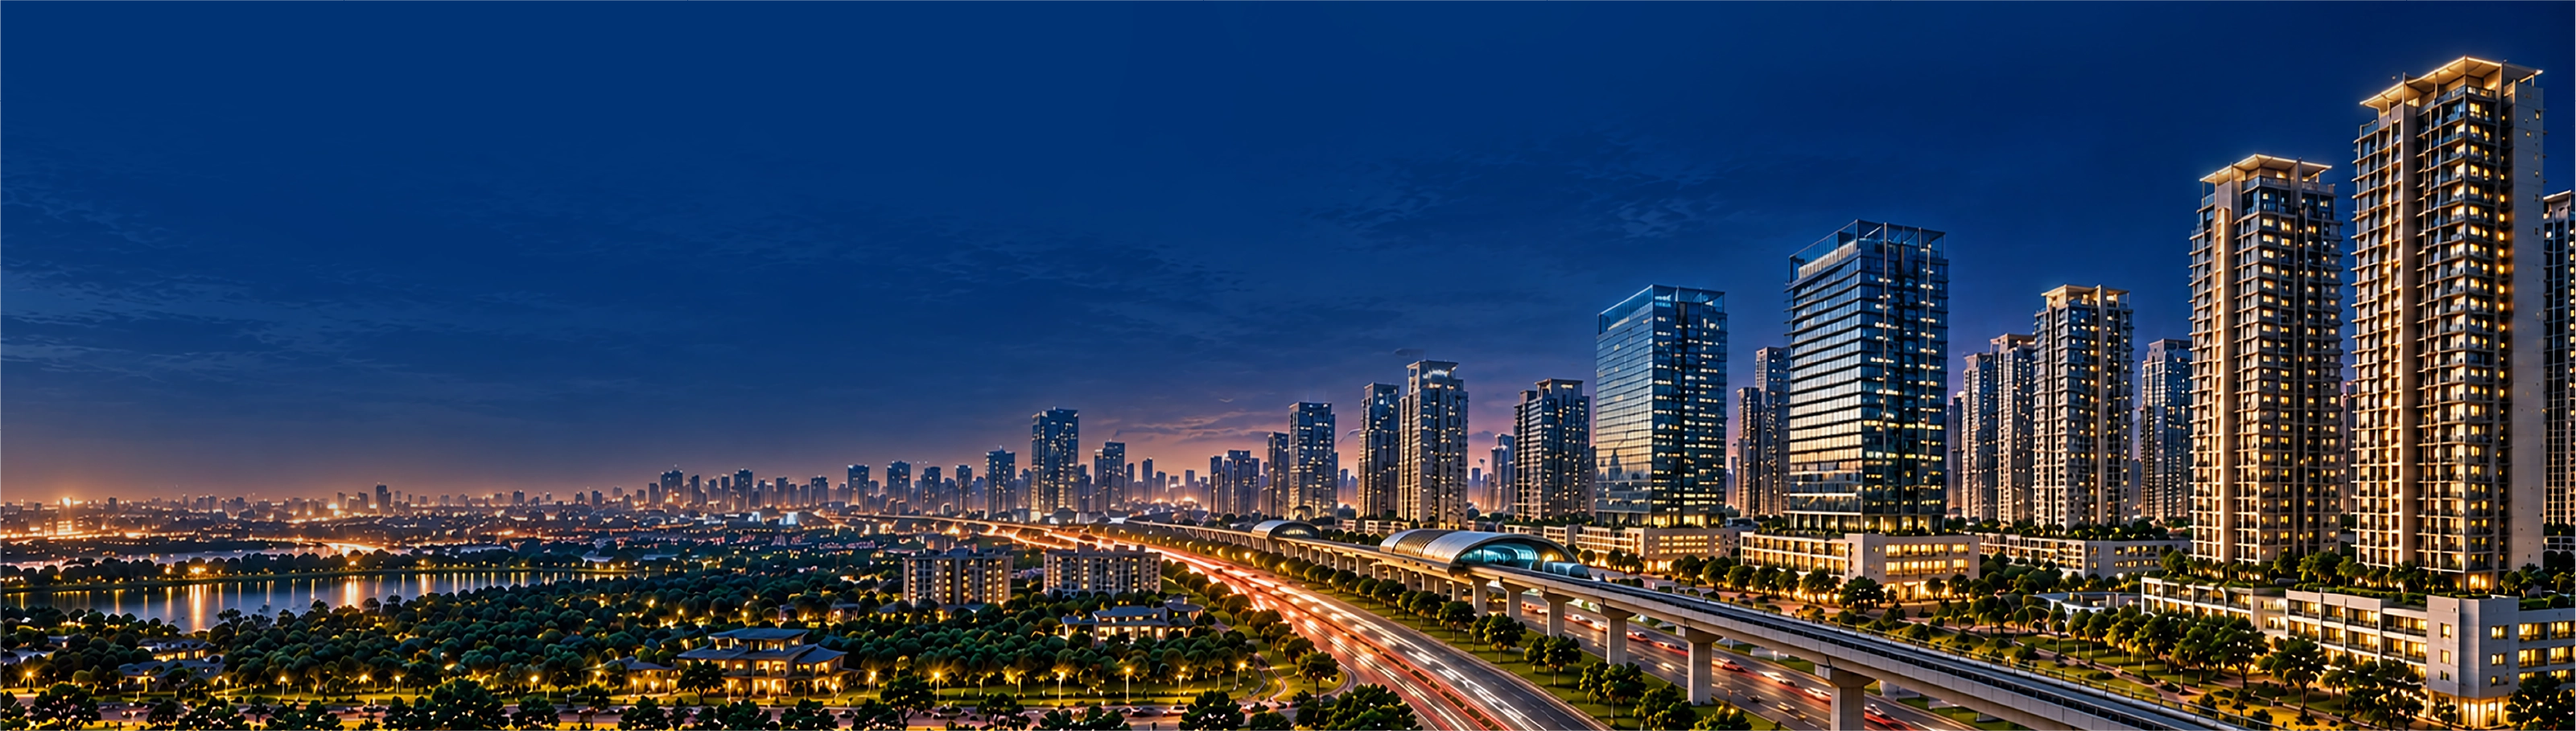
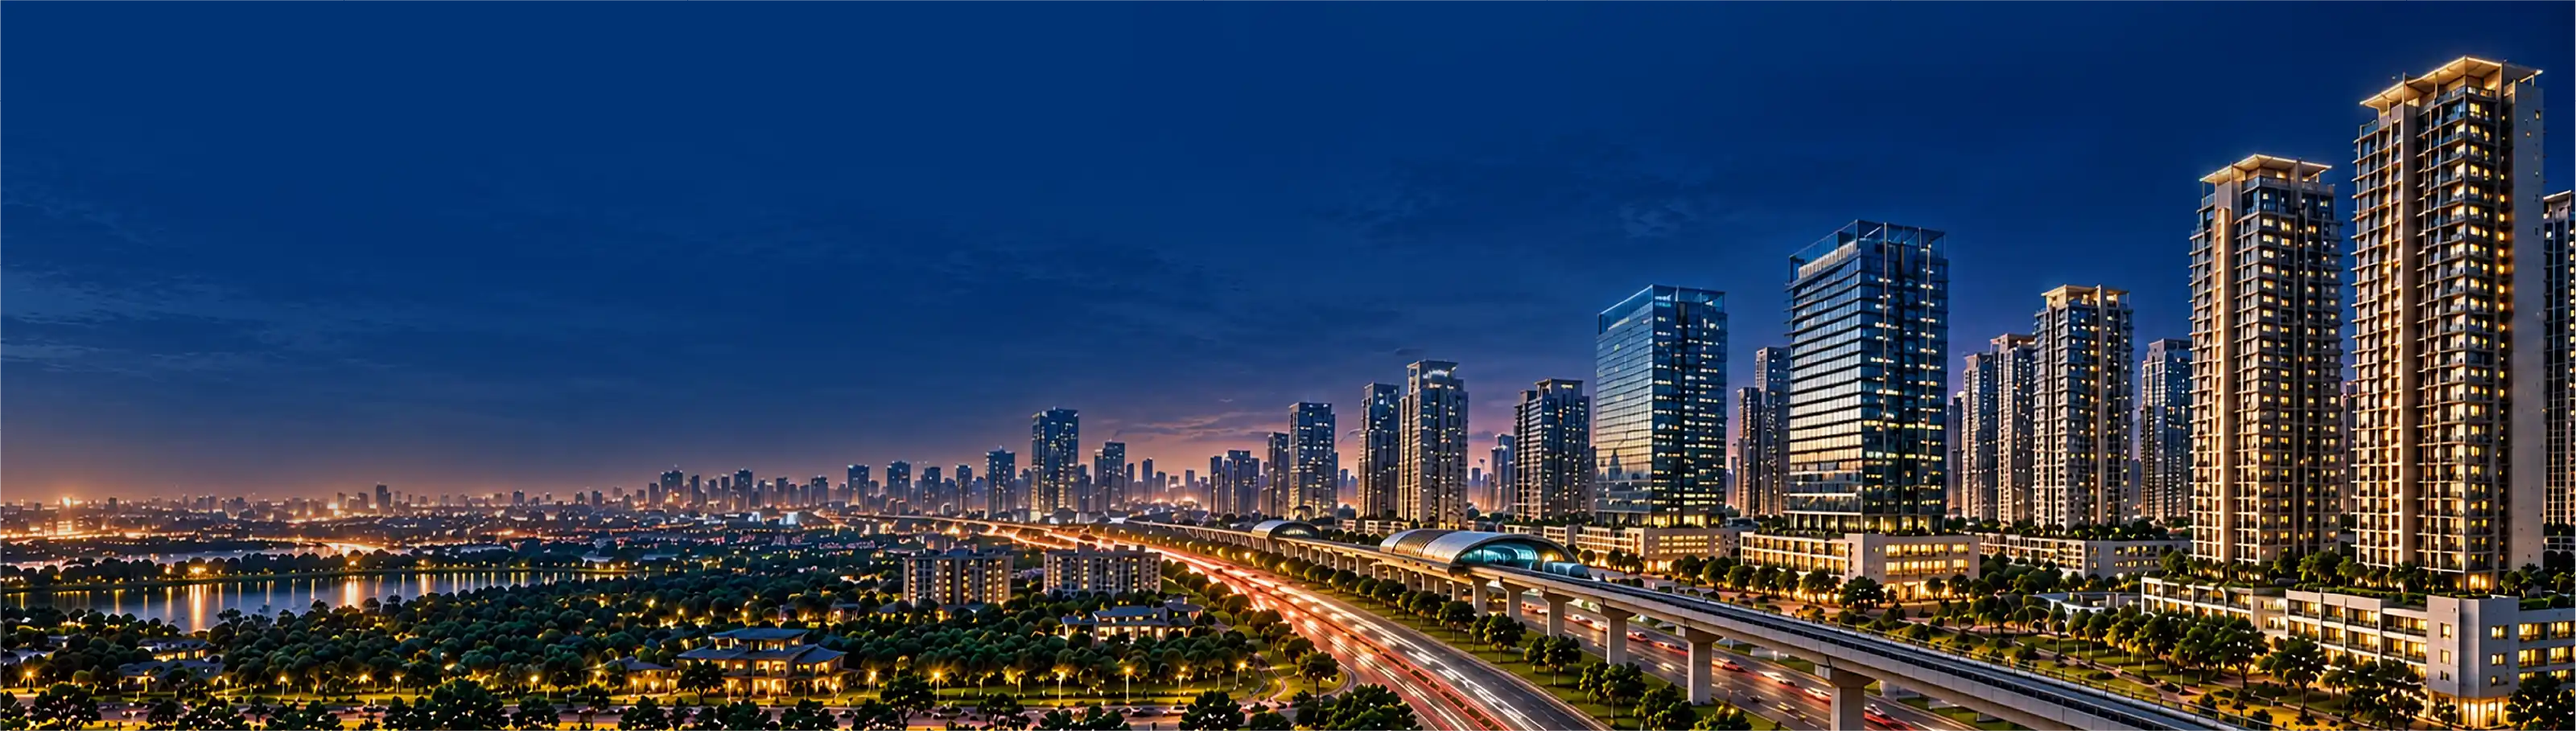
reduce image size of herosection

diff --git a/src/app/(home)/components/_homecomponents/heroSection.jsx b/src/app/(home)/components/_homecomponents/heroSection.jsx
@@ -1,8 +1,9 @@
 "use client";
 
+import dynamic from "next/dynamic";
 import { useEffect } from "react";
 import { getImageProps } from "next/image";
-import SearchFilter from "./searchFilterNew";
+const SearchFilter = dynamic(() => import("./searchFilterNew"));
 import "../home/home.css";
 import "./newmpfmetadata.css";
 import { MPF_GATEWAY_HIDDEN_EVENT } from "@/app/_global_components/mpfGatewayEvents";
@@ -56,7 +57,7 @@ function HeroBannerPicture() {
     props: { srcSet: mobileSrcSet },
   } = getImageProps({
     ...common,
-    quality: 88,
+    quality: HERO_IMAGE_QUALITY,
     src: BANNER_MOBILE.src,
     width: BANNER_MOBILE.width,
     height: BANNER_MOBILE.height,
@@ -66,7 +67,7 @@ function HeroBannerPicture() {
     props: { srcSet: tabletSrcSet },
   } = getImageProps({
     ...common,
-    quality: 88,
+    quality: HERO_IMAGE_QUALITY,
     src: BANNER_TABLET.src,
     width: BANNER_TABLET.width,
     height: BANNER_TABLET.height,
@@ -101,11 +102,10 @@ function HeroBannerPicture() {
             srcSet={desktopSrcSet}
             sizes={sizes}
             alt={BANNER_ALT}
-            title={BANNER_ALT}
             className="hero-banner-image hero-banner-image--full"
             loading="eager"
             fetchPriority="high"
-            decoding="sync"
+            decoding="async"
             draggable={false}
           />
         </picture>
@@ -117,8 +117,8 @@ function HeroBannerPicture() {
 export default function HeroSection({
   projectTypeList,
   cityList,
-  title = "Find Flats & Property Across India | Buy & Invest",
-  subtitle = "Browse flats, apartments, and commercial properties in India with verified listings, price trends, and expert insights.",
+  // title = "Find Flats & Property Across India | Buy & Invest",
+  // subtitle = "Browse flats, apartments, and commercial properties in India with verified listings, price trends, and expert insights.",
 }) {
   useHomeHeroHashScroll();
   return (
@@ -131,7 +131,7 @@ export default function HeroSection({
         <HeroBannerPicture />
         <div className="home-banner-overlay" aria-hidden="true" />
         <h1 id="mpf-page-heading" className="visually-hidden">
-        Verified properties across Noida, Greater Noida, Delhi NCR & major Indian cities
+          Verified properties across Noida, Greater Noida, Delhi NCR & major Indian cities
         </h1>
       </div>
 

diff --git a/src/app/(home)/components/_homecomponents/searchFilterNew.jsx b/src/app/(home)/components/_homecomponents/searchFilterNew.jsx
@@ -577,26 +577,29 @@ export default function SearchFilter({ projectTypeList = [], cityList = [], layo
     return () => window.clearInterval(timer);
   }, []);
 
-  useEffect(() => {
-    if (!isHomeHero) return undefined;
-    const card = cardRef.current;
-    if (!card) return undefined;
 
-    const observer = new IntersectionObserver(
-      ([entry]) => {
-        const sticky = !entry.isIntersecting && entry.boundingClientRect.top < 80;
-        setIsSearchSticky(sticky);
-        document.body.classList.toggle("mpf-search-sticky", sticky);
-        if (!sticky) setSearchTourStep(null);
-      },
-      { threshold: 0, rootMargin: "-72px 0px 0px 0px" },
-    );
-    observer.observe(card);
-    return () => {
-      observer.disconnect();
-      document.body.classList.remove("mpf-search-sticky");
-    };
-  }, [isHomeHero]);
+useEffect(() => {
+  if (!isHomeHero) return undefined;
+
+  const wrap = searchWrapRef.current;
+
+  const preload = () => {
+    loadReactSelectModule().then((Select) => {
+      setHeroSelect(() => Select);
+    });
+  };
+
+  wrap?.addEventListener("pointerenter", preload, {
+    once: true,
+    passive: true,
+  });
+  wrap?.addEventListener("focusin", preload, { once: true });
+
+  return () => {
+    wrap?.removeEventListener("pointerenter", preload);
+    wrap?.removeEventListener("focusin", preload);
+  };
+}, [isHomeHero]);
 
   const finishSearchTour = useCallback(() => {
     setSearchTourStep(null);

diff --git a/src/app/(home)/components/_homecomponents/heroBannerAssets.js b/src/app/(home)/components/_homecomponents/heroBannerAssets.js
@@ -50,5 +50,5 @@ export const BANNER_WIDTH = BANNER_DESKTOP.width;
 export const BANNER_HEIGHT = BANNER_DESKTOP.height;
 export const BANNER_SRC = BANNER_DESKTOP.src;
 
-export const HERO_IMAGE_QUALITY = 88;
+export const HERO_IMAGE_QUALITY = 75;
 export const HERO_IMAGE_SIZES = "100vw";
